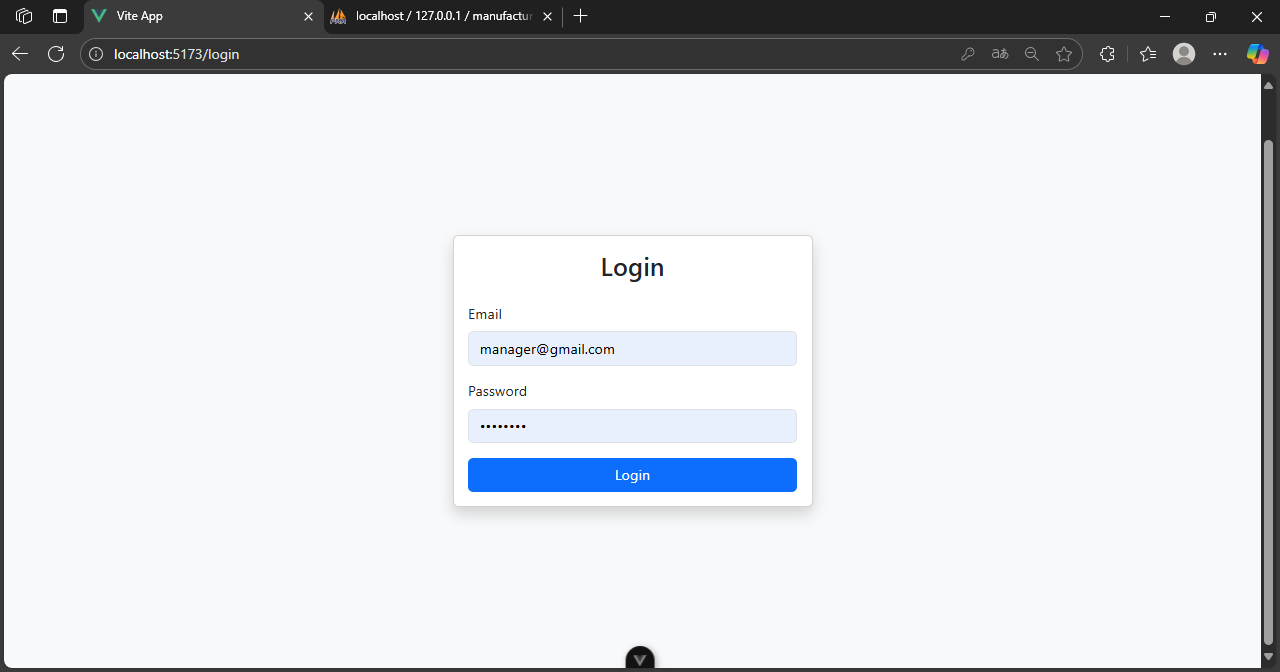
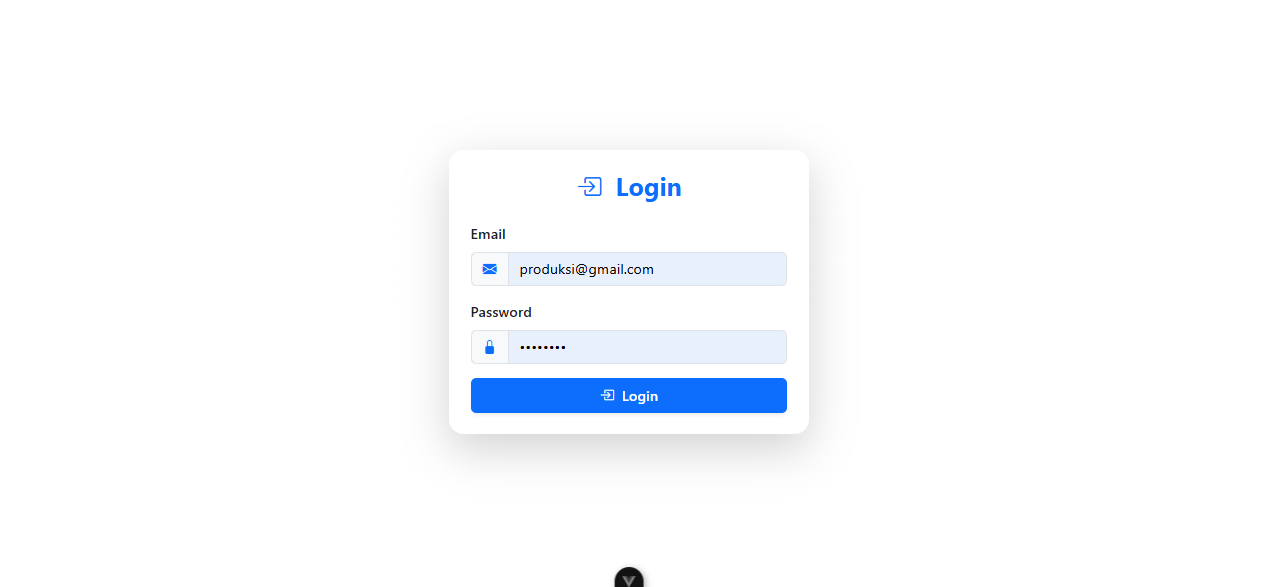
update

Changed region(s): [[0.0, 0.0, 1.0, 1.0], [0.3399, 0.3066, 0.649, 0.7666]]

diff --git a/README.md b/README.md
@@ -24,6 +24,23 @@ Berikut adalah contoh tangkapan layar dari beberapa halaman utama:
 
 * **Halaman Order Produksi**
    ![Halaman Order Produksi](screenshot/rencana-produksi.png)
+
+## Informasi Login
+
+Gunakan kredensial berikut untuk login dan menguji fungsionalitas aplikasi:
+
+* **Manajer**:
+    * Email: `manager@gmail.com`
+    * Password: `password`
+
+* **Staff PPIC**:
+    * Email: `ppic@gmail.com`
+    * Password: `password`
+
+* **Staff Produksi**:
+    * Email: `produksi@gmail.com`
+    * Password: `password`
+
     
 ## Persyaratan Sistem
 
